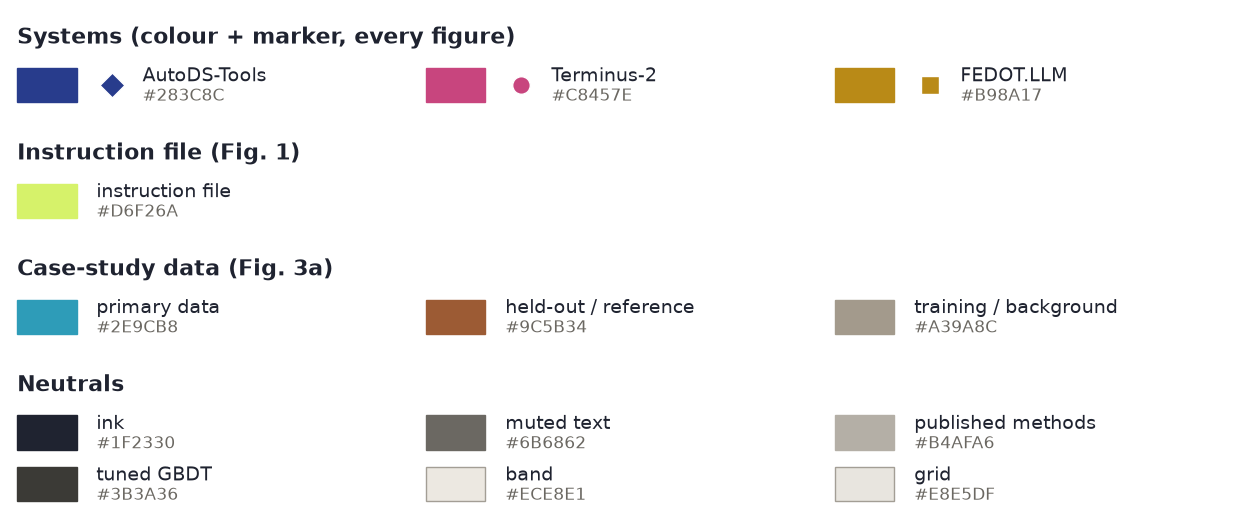
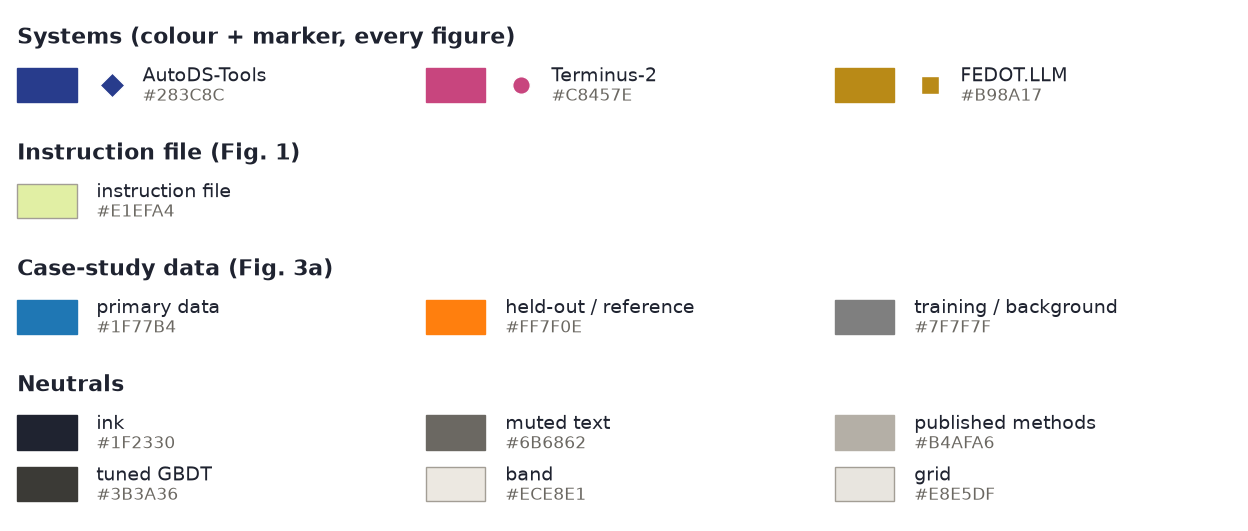
Рис. 3a в классических цветах matplotlib (tab:blue, tab:orange, tab:gray); лайм файла инструкций приглушён до #E1EFA4

diff --git a/paper/make_figures.py b/paper/make_figures.py
@@ -38,10 +38,10 @@ C = {"AutoDS-Tools": "#283C8C",   # indigo
      "Terminus-2": "#C8457E",     # raspberry
      "FEDOT.LLM": "#B98A17",      # mustard
      "context": "#A39E95"}        # stone, anything that is not a system
-KNOWLEDGE = "#D6F26A"      # instruction file: light lime, a sticky-note highlight
-CASE = {"primary": "#2E9CB8",     # cyan: the data a case-study panel shows
-        "highlight": "#9C5B34",   # sienna: the part to predict, a reference line
-        "context": "#A39A8C"}     # stone: training or background data
+KNOWLEDGE = "#E1EFA4"      # instruction file: pale lime, a sticky-note highlight
+CASE = {"primary": "#1F77B4",     # matplotlib tab:blue, the data a case panel shows
+        "highlight": "#FF7F0E",   # tab:orange, the part to predict, a reference line
+        "context": "#7F7F7F"}     # tab:gray, training or background data
 
 TITLE = dict(fontsize=7, fontweight="bold", loc="center")
 PANEL = dict(fontsize=6.5, fontweight="bold", loc="center")

diff --git a/paper/main.tex b/paper/main.tex
@@ -29,7 +29,7 @@
 \definecolor{cFedot}{HTML}{B98A17}
 \definecolor{cAuto}{HTML}{283C8C}
 \definecolor{cTerm}{HTML}{C8457E}
-\definecolor{cLayer}{HTML}{D6F26A}
+\definecolor{cLayer}{HTML}{E1EFA4}
 \definecolor{cStage}{HTML}{ECE8E1}
 \definecolor{ink}{HTML}{1F2330}
 \definecolor{muted}{HTML}{6B6862}

diff --git a/paper/figures/STYLE.md b/paper/figures/STYLE.md
@@ -16,8 +16,9 @@ neutrals); `make_case_figures.py` imports them, and Fig. 1 takes them from the
    bands, reference lines) is a warm stone grey.
 3. The instruction file has its own colour, a light lime like a sticky note,
    used only in Fig. 1.
-4. The case-study data panels (Fig. 3a) use three colours of their own that
-   never stand for a system.
+4. The case-study data panels (Fig. 3a) show raw data, no system appears in
+   them, and they use the classic matplotlib colours (tab:blue, tab:orange,
+   tab:gray).
 
 ## Colours
 
@@ -26,10 +27,10 @@ neutrals); `make_case_figures.py` imports them, and Fig. 1 takes them from the
 | AutoDS-Tools | indigo | `#283C8C` |
 | Terminus-2 | raspberry | `#C8457E` |
 | FEDOT.LLM | mustard | `#B98A17` |
-| instruction file (Fig. 1) | lime | `#D6F26A` |
-| case data, primary (Fig. 3a) | cyan | `#2E9CB8` |
-| case data, held-out / reference (Fig. 3a) | sienna | `#9C5B34` |
-| case data, training / background (Fig. 3a) | stone | `#A39A8C` |
+| instruction file (Fig. 1) | pale lime | `#E1EFA4` |
+| case data, primary (Fig. 3a) | matplotlib tab:blue | `#1F77B4` |
+| case data, held-out / reference (Fig. 3a) | matplotlib tab:orange | `#FF7F0E` |
+| case data, training / background (Fig. 3a) | matplotlib tab:gray | `#7F7F7F` |
 | text | ink | `#1F2330` |
 | secondary text | muted | `#6B6862` |
 | published methods | stone | `#B4AFA6` |
@@ -42,7 +43,7 @@ neutrals); `make_case_figures.py` imports them, and Fig. 1 takes them from the
 Minimum pairwise CIELAB distance between the three system colours, over
 normal vision and simulated protanopia, deuteranopia and tritanopia
 (Machado et al. 2009, full severity): 32.9 (Okabe-Ito triple used before:
-17.0). With the lime added: 29.1. Lightness of the system colours is 28, 50
+17.0). With the pale lime added the closest pair stays at 32.9. Lightness of the system colours is 28, 50
 and 60, so they also separate in greyscale print; markers carry the identity
 as well.
 
